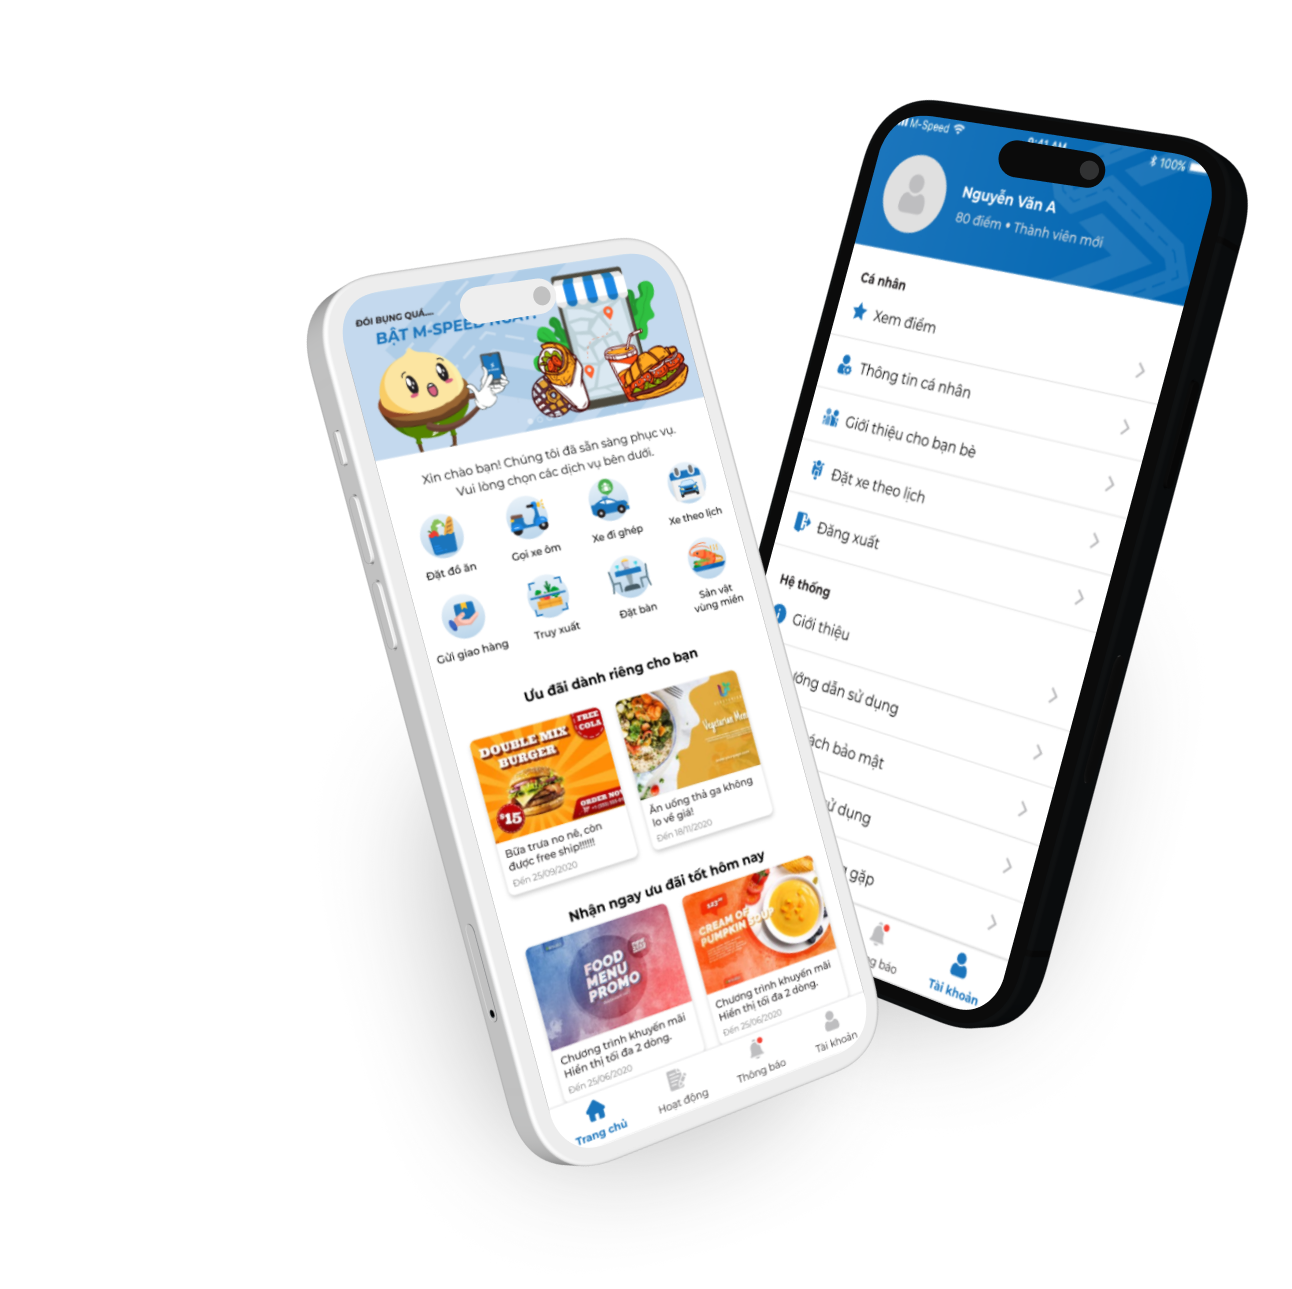
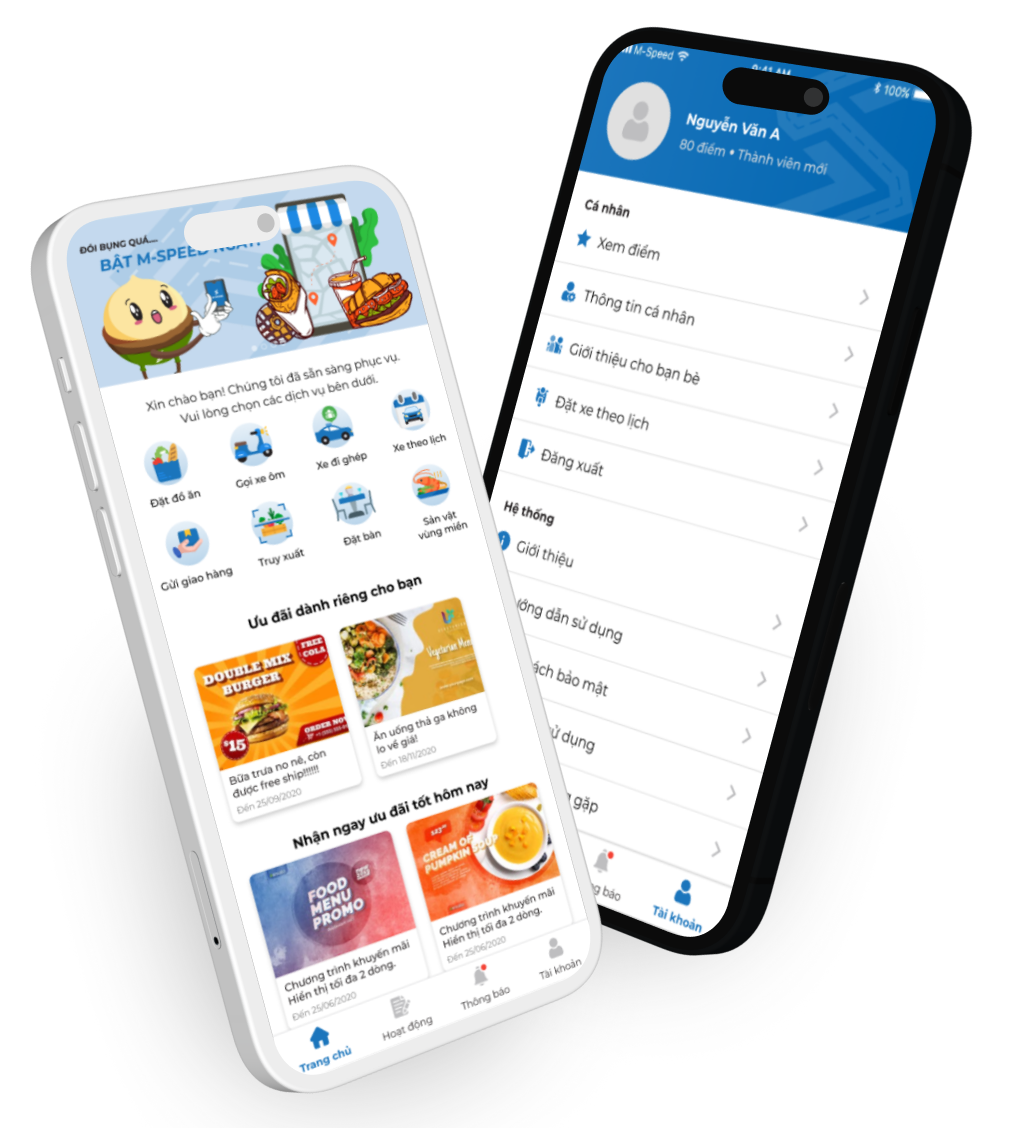
responsive page

diff --git a/index.html b/index.html
@@ -57,7 +57,8 @@
     <!-- End section 1 -->
     <!-- section 2 -->
     <div class="container-fluid info-container">
-        <div class="container">
+        <div class="container" style="position: relative
+        ;">
             <div class="content">
                 <div class="quote-box">
                     <img src="./images/section2/Quote.svg" alt="" class="quote quote-open">
@@ -99,8 +100,8 @@
                     </div>
                 </div>
             </div>
+            <img src="./images/section2/Mockup.png" alt="" class="mockup">
         </div>
-        <img src="./images/section2/Mockup.png" alt="" class="mockup">
     </div>
     <!-- End section 2 -->
     <!-- section 3 -->
@@ -233,7 +234,7 @@
         </div>
         <div class="container tablet-w100">
             <picture>
-                <source media="(min-width:1200px)" class="mockup" srcset="./images/section4/Section7-Desktop.png">
+                <source media="(min-width:1000px)" class="mockup" srcset="./images/section4/Section7-Desktop.png">
                 <source media="(min-width:960px)" class="mockup" srcset="./images/section4/Section7-Tablet.png">
                 <source media="(min-width:720px)" class="mockup" srcset="./images/section4/Section7-Tablet.png">
                 <source media="(min-width:300px)" class="mockup" srcset="./images/section4/Section7-Mobile.png">
@@ -252,7 +253,7 @@
         </div>
         <div class="container tablet-w100" style="margin-bottom: 4em;">
             <picture>
-                <source media="(min-width:1200px)" class="mockup" srcset="images/section4/Section8-Desktop.png">
+                <source media="(min-width:1000px)" class="mockup" srcset="images/section4/Section8-Desktop.png">
                 <source media="(min-width:960px)" class="mockup" srcset="images/section4/Section8-Tablet.png">
                 <source media="(min-width:720px)" class="mockup" srcset="images/section4/Section8-Tablet.png">
                 <source media="(min-width:400px)" class="mockup" srcset="images/section4/Section8-Mobile.png">

diff --git a/style/style.css b/style/style.css
@@ -88,9 +88,10 @@ p {
 }
 
 .info-container .mockup {
-  width: 625px;
+  max-width: 400px;
   position: absolute;
-  left: -15px;
+  left: -84px;
+  top: 20px;
 }
 
 .info-container .content {
@@ -151,7 +152,7 @@ p {
 }
 .features-container .feature-item {
   margin-top: 40px;
-  width: fit-content;
+  width: 50%;
 }
 
 .call-feature {
@@ -254,6 +255,22 @@ textarea {
 label {
   color: #4cd2d5;
   margin-bottom: 5px;
+}
+
+@media screen and (max-width: 1500px) {
+  .banner-container {
+    min-height: 780px;
+  }
+
+  .info-container {
+    min-height: 650px;
+  }
+
+  .some-features-container > .content {
+    margin-top: 0 !important;
+    min-height: unset;
+    padding-top: 0;
+  }
 }
 
 @media screen and (max-width: 960px) {
